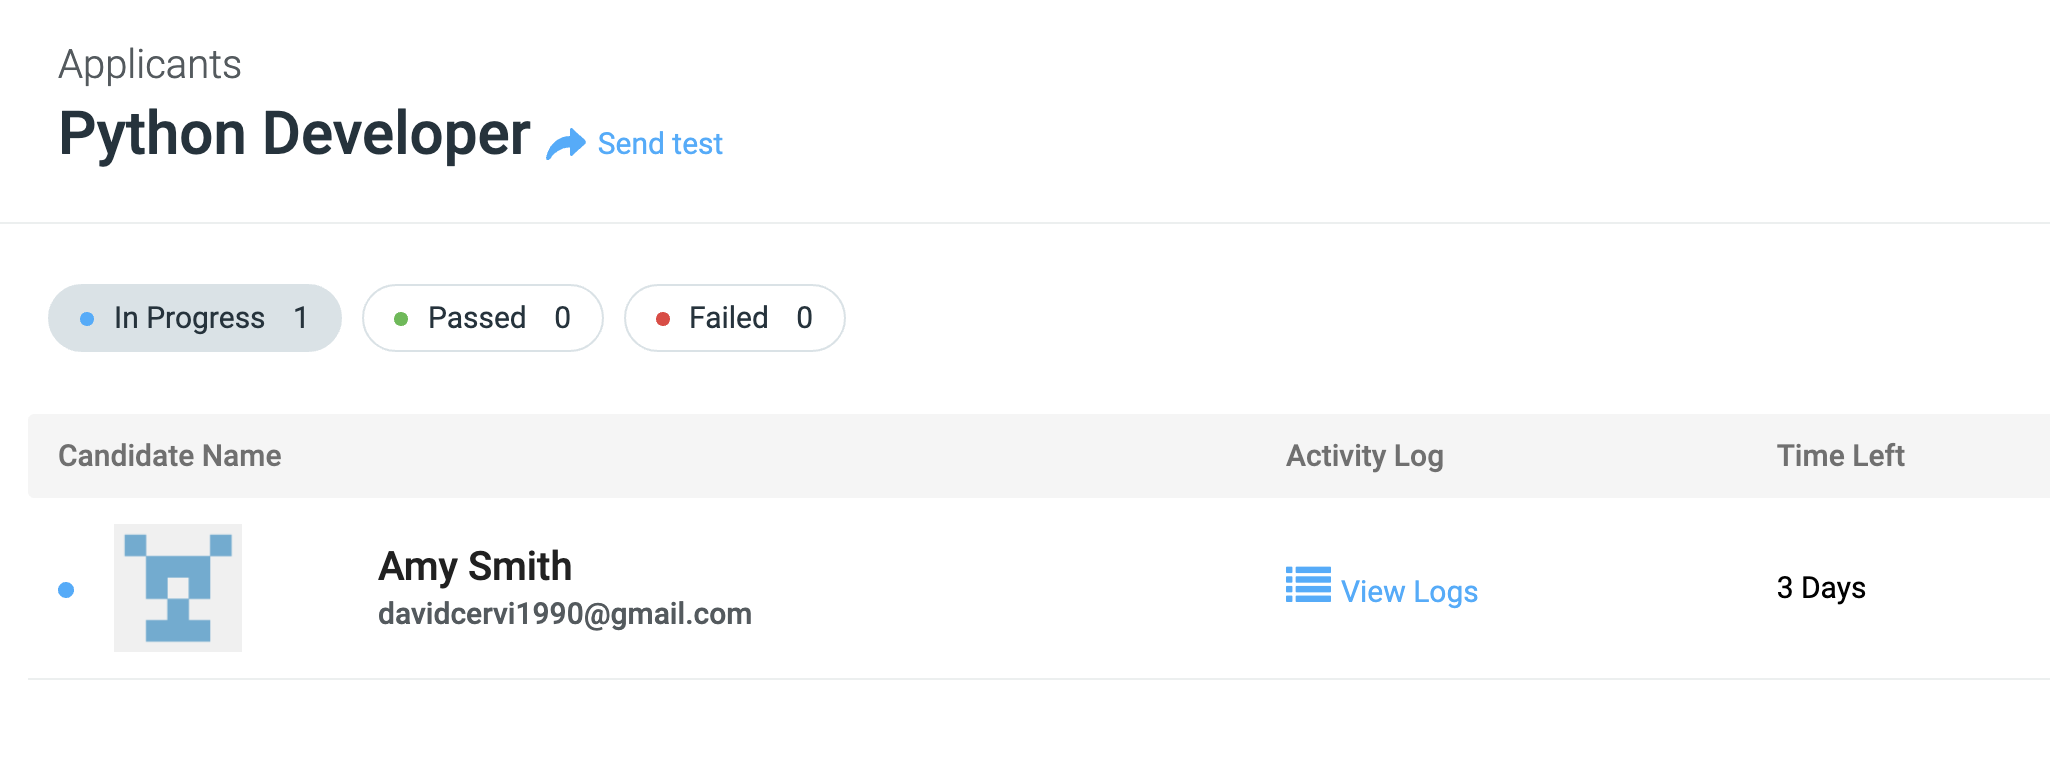
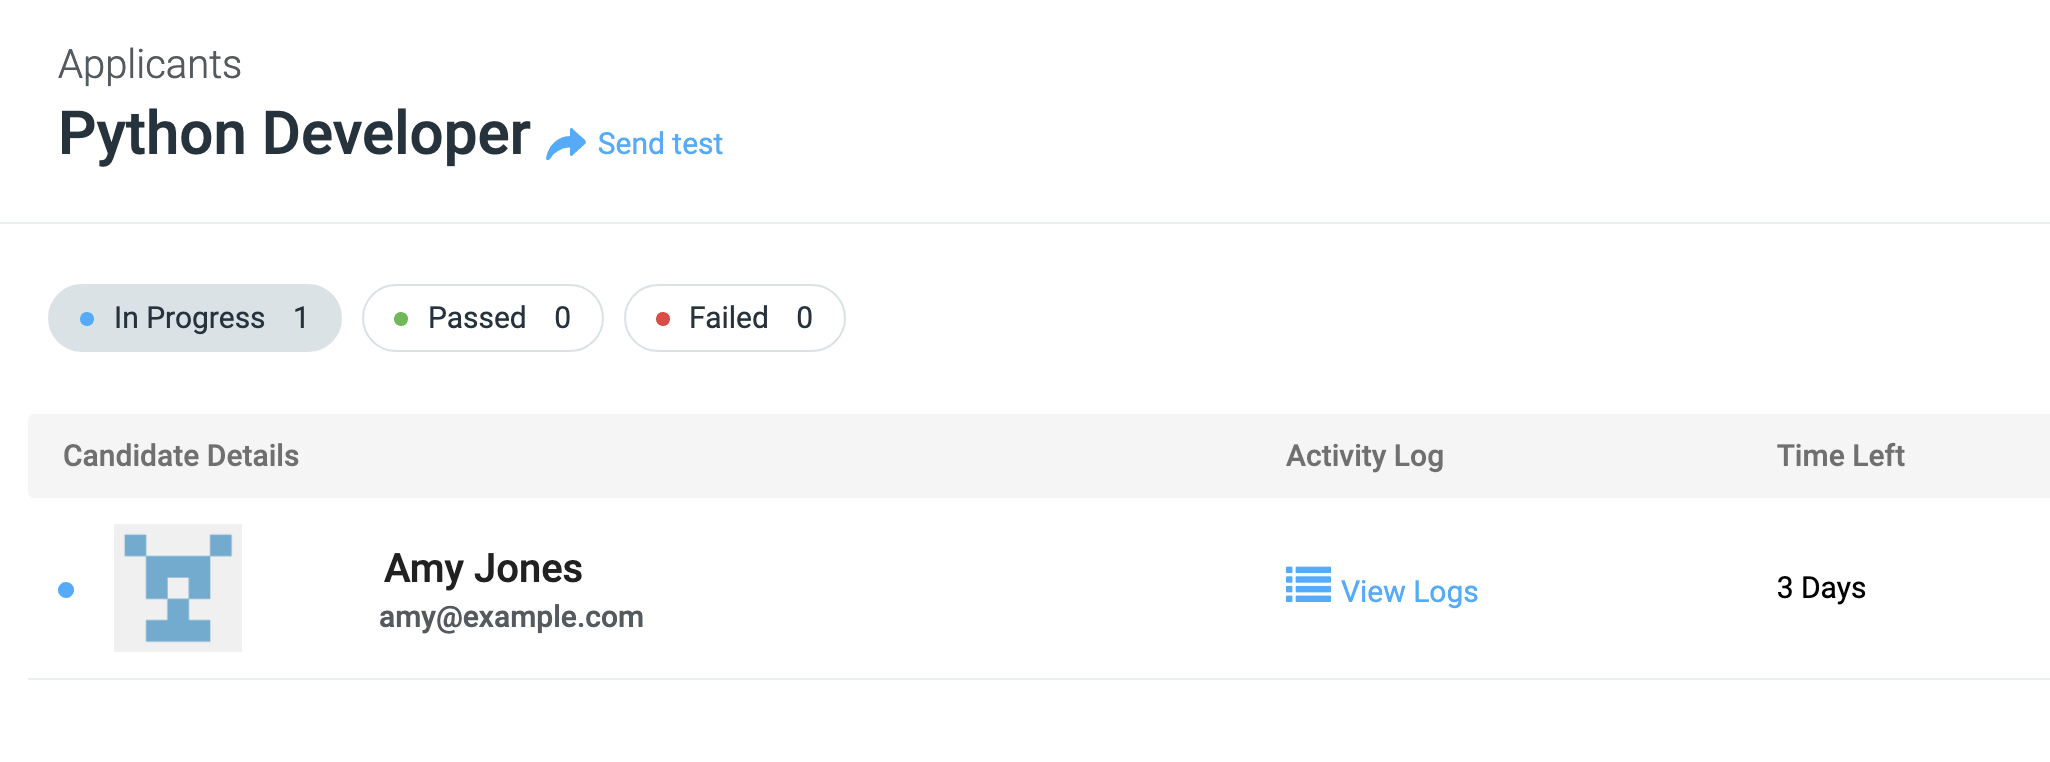
Added Library Tests docs

Changed region(s): [[0.1873, 0.7244, 0.3746, 0.8451], [0.0312, 0.5735, 0.1561, 0.6339]]

diff --git a/docs/choosing-lib-test.md b/docs/choosing-lib-test.md
@@ -1,0 +1,41 @@
+# Choosing a Library Test
+
+When you click `Add new test` on CodeScreen, you will be given the following two choices:
+
+<figure>
+  <figcaption style="font-style: italic;"></figcaption>
+  </br>
+  <img style="max-width: 40%;" src="testChoice.png" alt="Test Choice"/>
+</figure>
+
+`Library Tests` are assessments that we provide off the shelf for you to use. **Note** if you want to learn more about
+`Custom Tests`, click [here](concepts.md).
+
+Once you click on Library test, you will see the following screen which contains a summary of each of our library tests:
+
+<figure>
+  <figcaption style="font-style: italic;"></figcaption>
+  </br>
+  <img style="max-width: 70%;" src="libTestSummary.png" alt="Lib Test Summary"/>
+</figure>
+
+You can filter these tests based of which `language/framework` the test is available in, and which `skills` are assessed during the test.
+
+Each test is available in multiple languages/frameworks and assess various different skills (e.g. Databases, APIs, REST, etc.).
+
+There is also a `Difficulty Level` attached to each test, which can be one of the following three values:
+
+ * **Easy** - New Grad/1 year experience.
+ * **Medium** - Junior/Medium level developer. 2 - 5 years experience.
+ * **Hard** - Senior developer. 5+ years experience.
+
+To find out more information about a test, click the `More detail` blue button:
+
+<figure>
+  <figcaption style="font-style: italic;"></figcaption>
+  </br>
+  <img style="max-width: 70%;" src="lib-tests.png" alt="Lib Test Summary"/>
+</figure>
+
+To choose a test, just click on the row for test you want to select. Once you select a test, you will be brought to<br>
+the [Create Library Test](creating-lib-test.md) screen.

diff --git a/docs/creating-lib-test.md b/docs/creating-lib-test.md
@@ -1,0 +1,34 @@
+# Creating a Library Test
+
+Once you choose a library test, you then need to give it a name (e.g. Python Developer) and select which choice of language/framework the candidate has to write their soliution to the test in.
+
+<figure>
+  <figcaption style="font-style: italic;"></figcaption>
+  </br>
+  <img style="max-width: 40%;" src="libTestDetails1.png" alt="Lang Choice"/>
+</figure>
+
+<br>
+
+You can also set the time limits for the test and select whether a video recording is required from the candidate to explain their
+solution.
+
+<figure>
+  <figcaption style="font-style: italic;"></figcaption>
+  </br>
+  <img style="max-width: 40%;" src="libTestDetails2.png" alt="Lang Choice"/>
+</figure>
+
+Please read <a href="https://code-screen.github.io/Candidate-Video-Docs" target="_blank">here</a> for more details on video recordings.
+
+The time limits are broken into the following:
+
+* `Sent` - The maximum number of days the candidate has to complete the test once they it is sent to them.
+
+* `Begins` - The maximum number of hours/days the candidate has to complete the test once they they start the test.
+
+You will also notice that we display a recommended maximum `Begins` time. Please **note** that all our library tests are designed
+to be successfully <br> solved within 60-90 minutes. We do, however, suggest a time greater than this to avoid making candidates 
+feel unnecessarily stressed, <br> which allows them to perform better on the test.
+
+Once you have filled out all the above, then click the `Publish` button, and you can start [sending](sendingTests.md) your new test to candidates!

diff --git a/docs/sendingTests.md b/docs/sendingTests.md
@@ -2,7 +2,15 @@
 
 Once you create your first Test, you can then send the test to candidates.
 
-To do this, click on the `Send test` link beside the test name.
+To do this, click on the row for the test on the homepage screen:
+
+<figure>
+  <figcaption style="font-style: italic;"></figcaption>
+  </br>
+  <img style="max-width: 60%;" src="sendTest.png" alt="Send Test"/>
+</figure>
+
+Then click the `Send test` link beside the test name.
 
 <figure>
   <figcaption style="font-style: italic;"></figcaption>

diff --git a/docs/intro.md b/docs/intro.md
@@ -10,7 +10,7 @@ The goal of this user guide is to provide will all the information and guidance 
 This guide is broken into the following sections:
 
 * [Creating Custom Tests](concepts.md)
-* [Creating Library Tests](libraryConcepts.md)
+* [Creating Library Tests](choosing-lib-test.md)
 * [Sending Tests](sendingTests.md)
 * [Viewing Results](viewingResults.md)
 * [ATS Integrations](greenhouse.md)

diff --git a/docs/sidebar.md b/docs/sidebar.md
@@ -33,7 +33,8 @@
 
 - Creating Library Tests
 
-  - [Concepts](concepts-library.md)
+  - [Choosing Library Test](choosing-lib-test.md)
+  - [Creating Library Test](creating-lib-test.md)
 
 - Sending Tests
 
